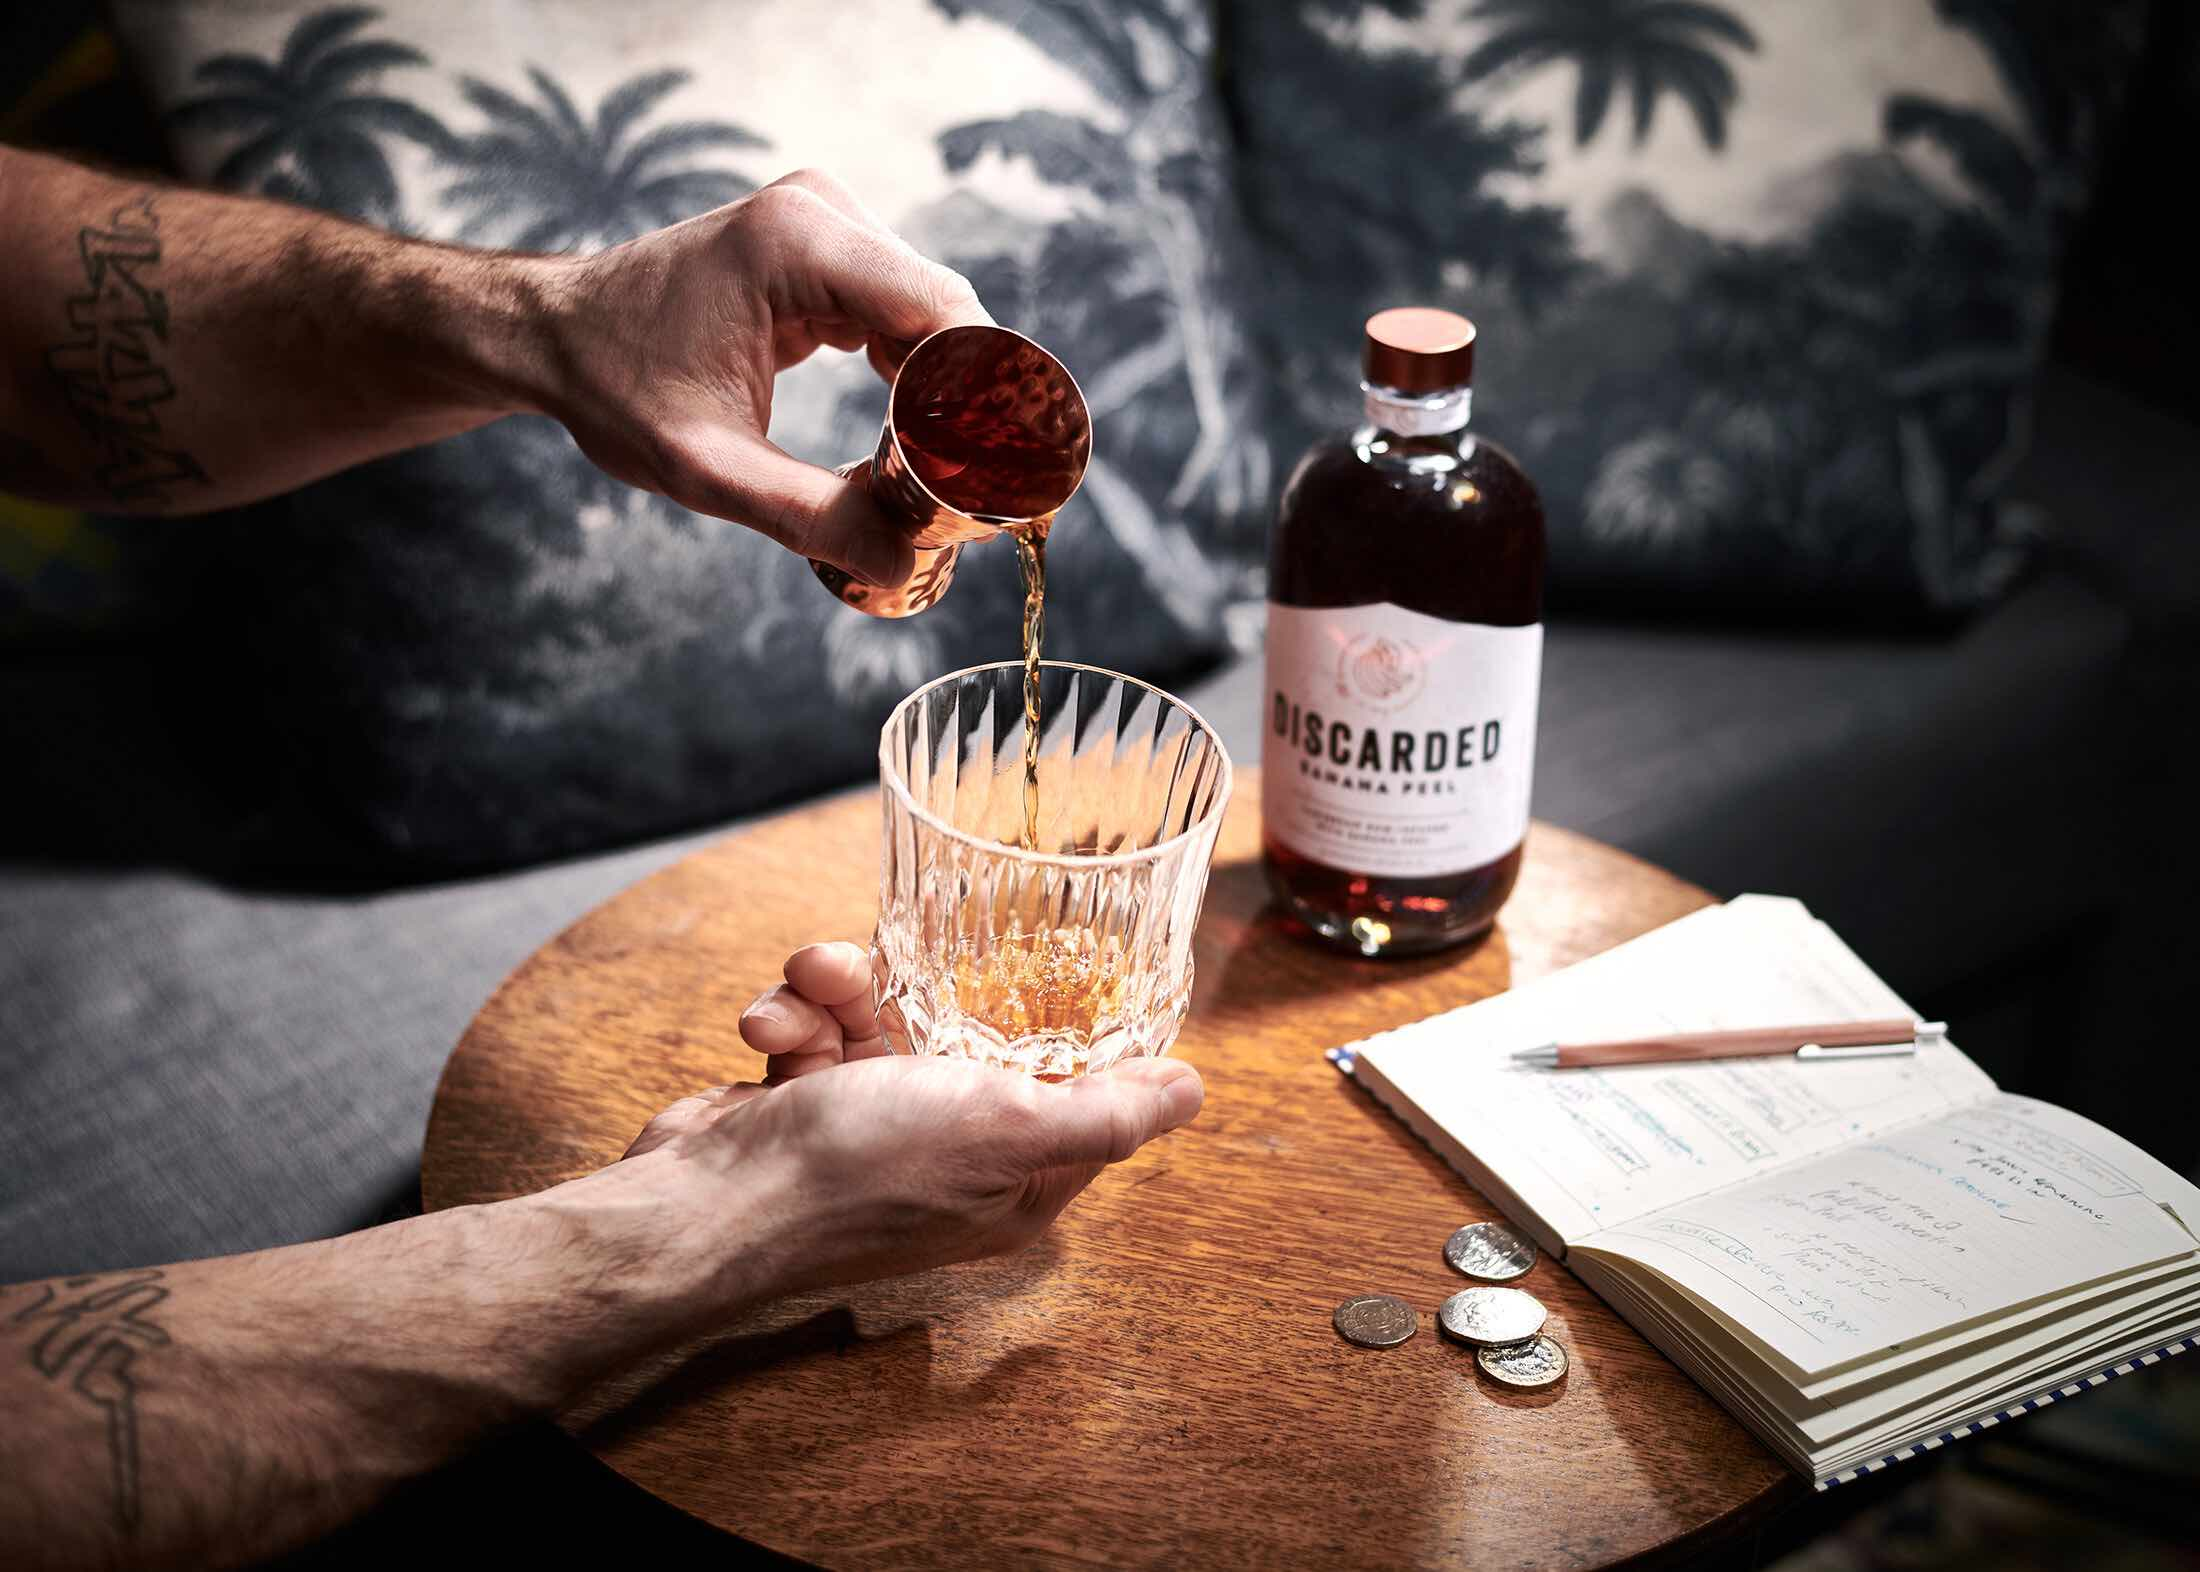
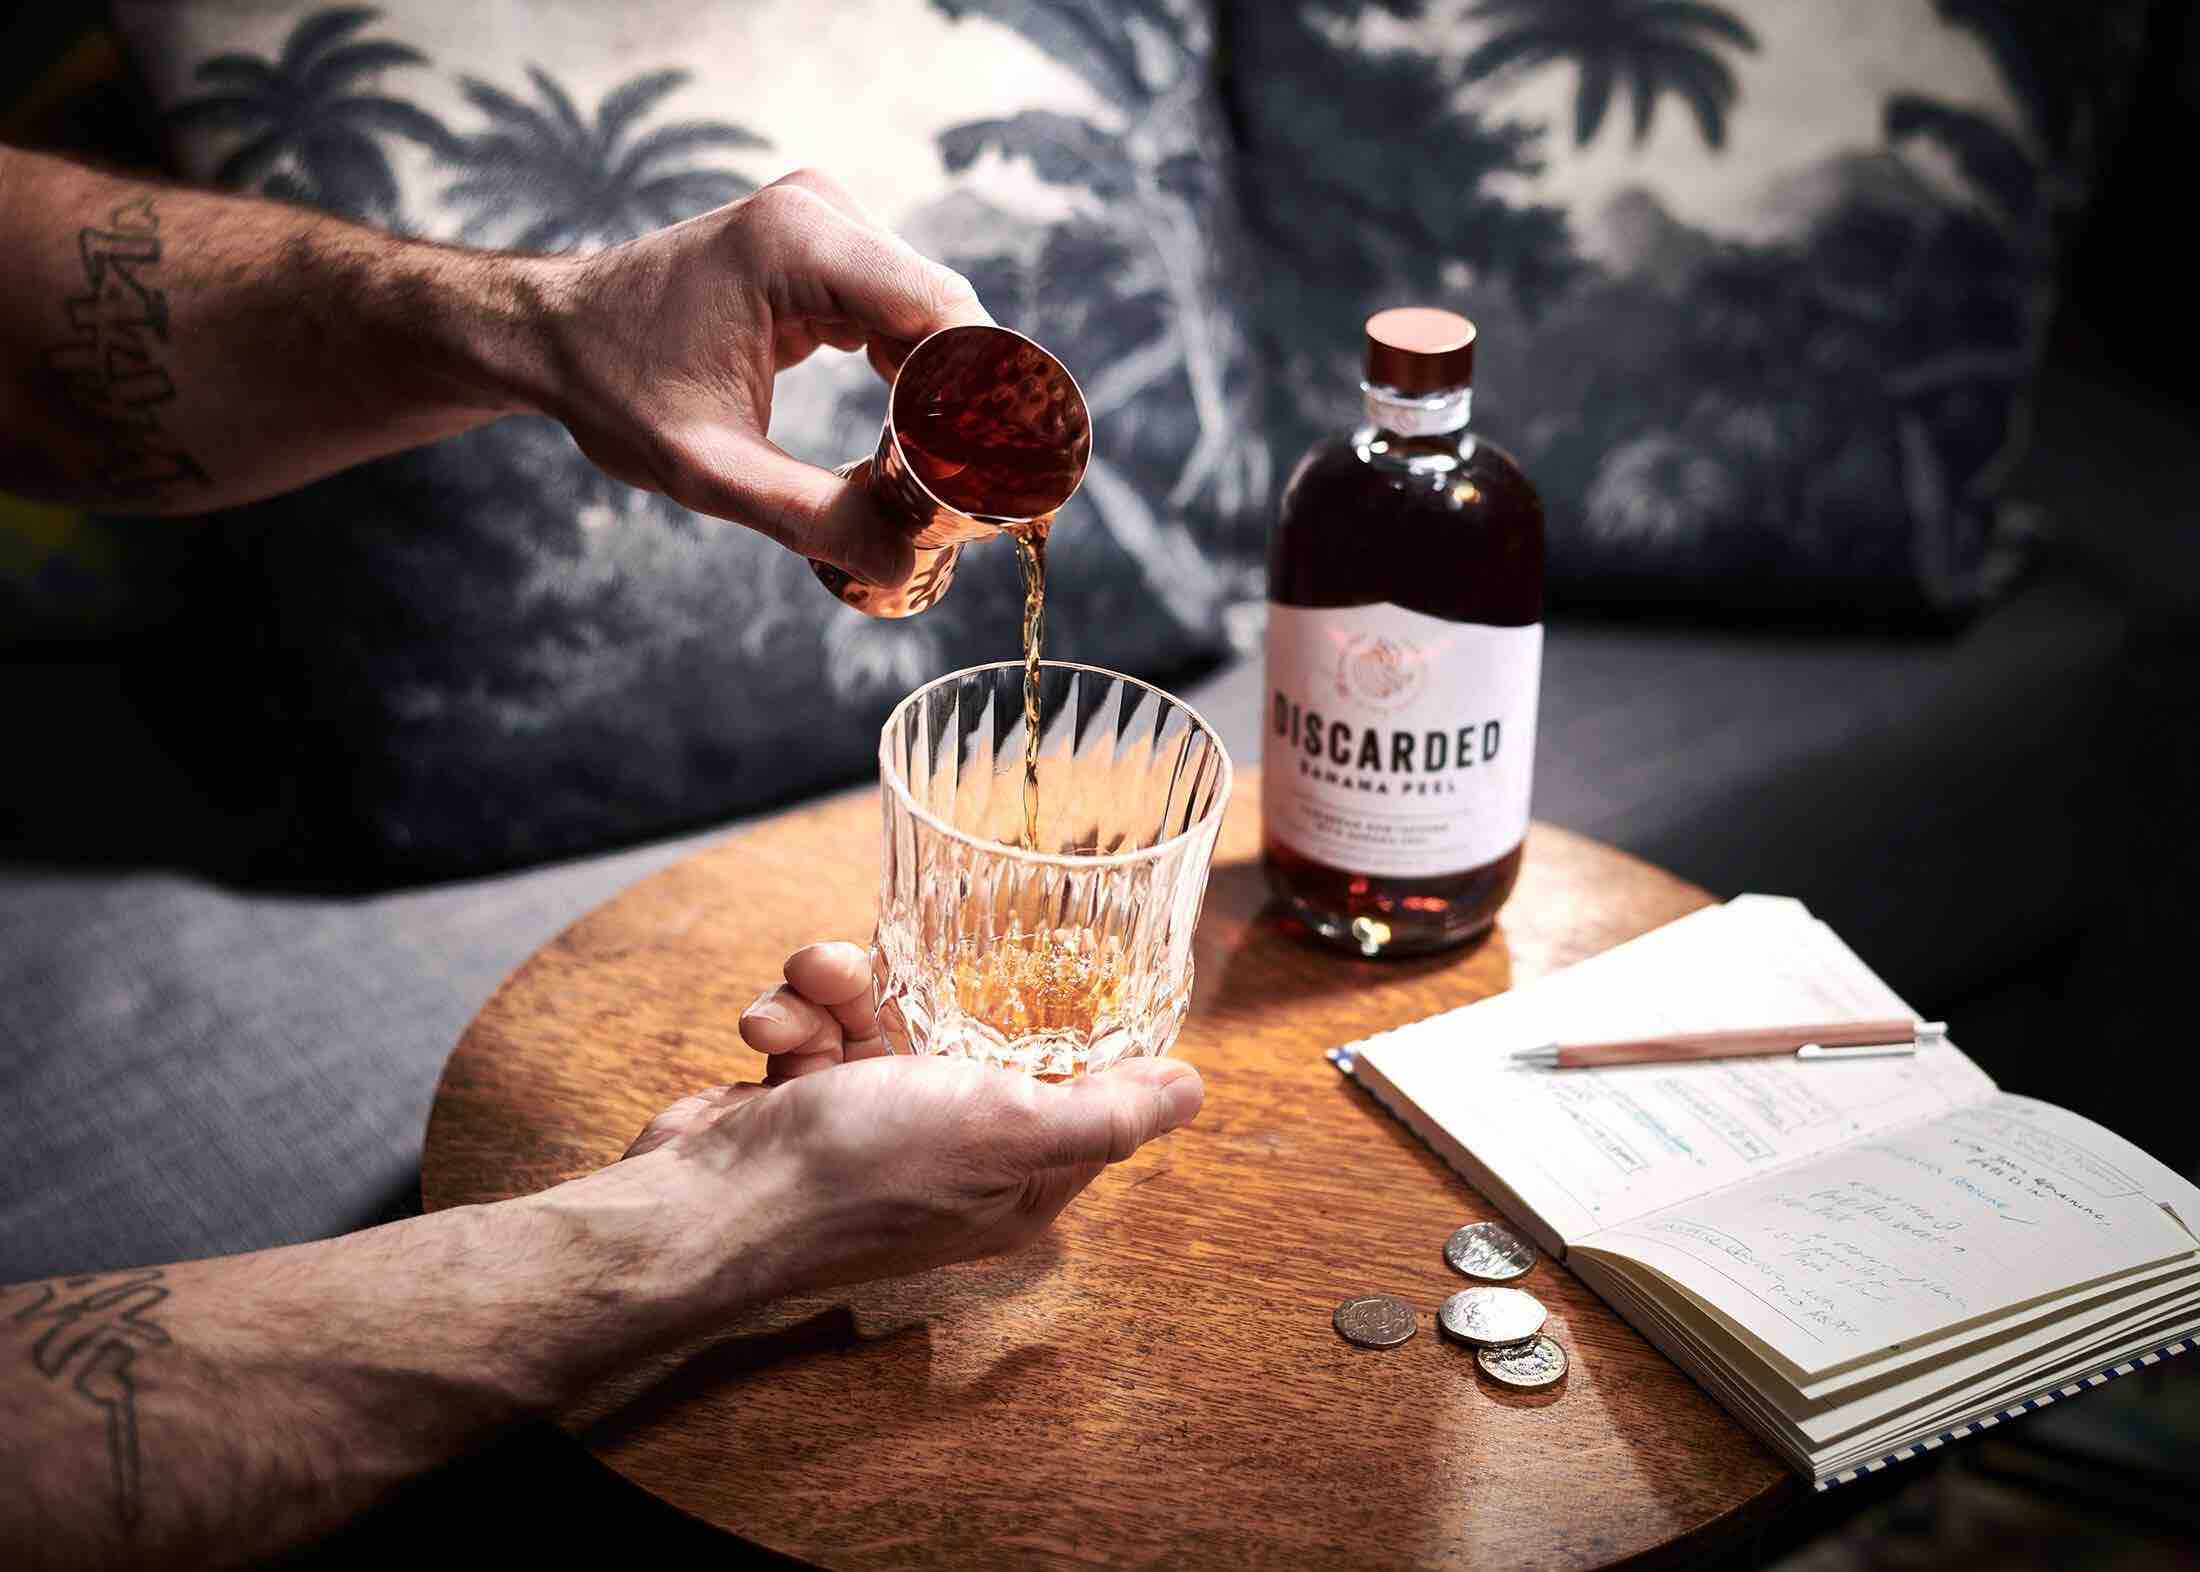
feat: compress images

diff --git a/src/constants/experiences.ts b/src/constants/experiences.ts
@@ -6,7 +6,7 @@ import oslerImage from 'assets/images/experiences/Osler/building.jpeg'
 import oslerThumbnail from 'assets/images/experiences/Osler/thumbnails/building.jpg'
 import financialDistrict from 'assets/images/experiences/Osler/financialDistrict.jpeg'
 
-import telusImage from 'assets/images/experiences/Telus/building.jpeg'
+import telusImage from 'assets/images/experiences/Telus/building.jpg'
 import telusBuilding from 'assets/images/experiences/Telus/telusBuilding.jpg'
 import telusThumbnail from 'assets/images/experiences/Telus/thumbnails/building.jpg'
 

diff --git a/src/constants/projects.ts b/src/constants/projects.ts
@@ -4,7 +4,7 @@ import pdfImage from 'assets/images/projects/pdfsplitter/pdfsplitter.jpg'
 import pdfScreenshot from 'assets/images/projects/pdfsplitter/mac.png'
 import pdfThumbnail from 'assets/images/projects/pdfsplitter/thumbnails/pdfsplitter.jpg'
 
-import lcboImage from 'assets/images/projects/LCBO/lcbo.jpeg'
+import lcboImage from 'assets/images/projects/LCBO/lcbo.jpg'
 import lcboScreenshot from 'assets/images/projects/LCBO/mac.png'
 import lcboThumbnail from 'assets/images/projects/LCBO//thumbnails/lcbo.jpg'
 

diff --git a/src/containers/Mobile/styles.js b/src/containers/Mobile/styles.js
@@ -9,6 +9,7 @@ export const MobileConatiner = styled.div`
   overflow-x: hidden;
   width: 100%;
   height: 100vh;
+  position: relative;
   background: #f6f6f6;
 `
 
